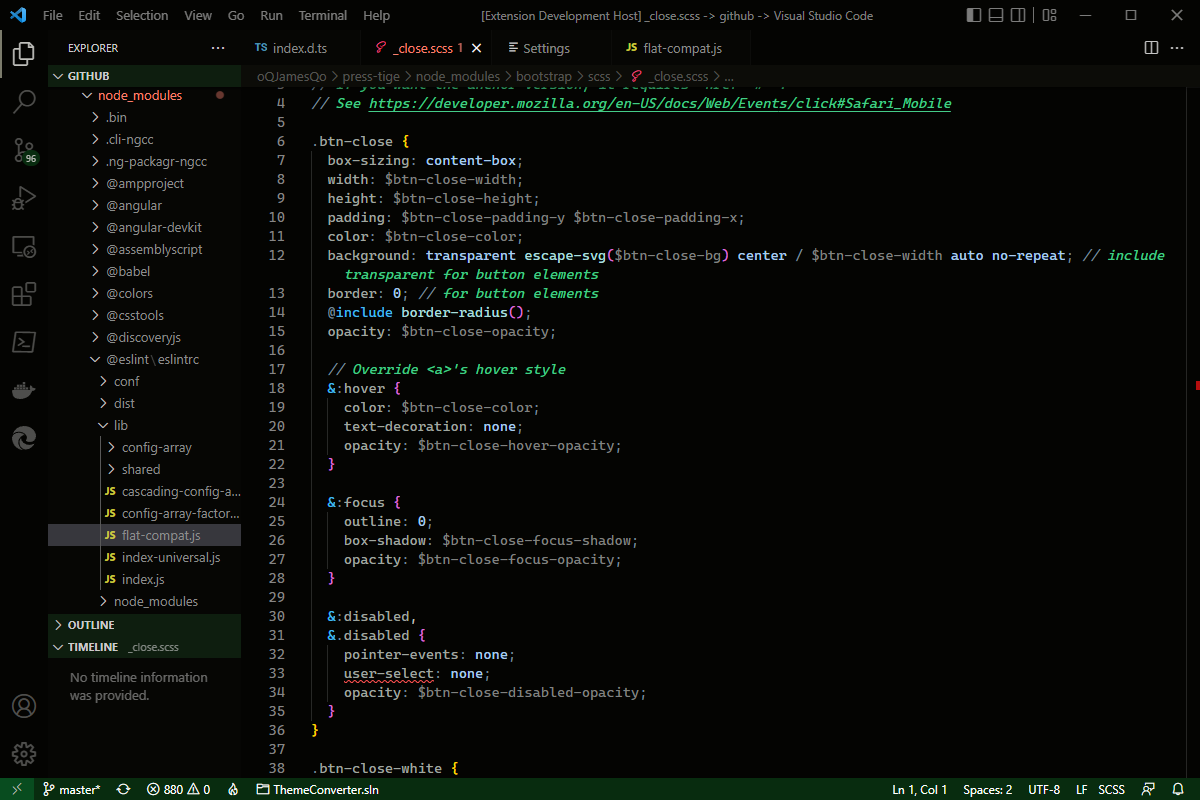
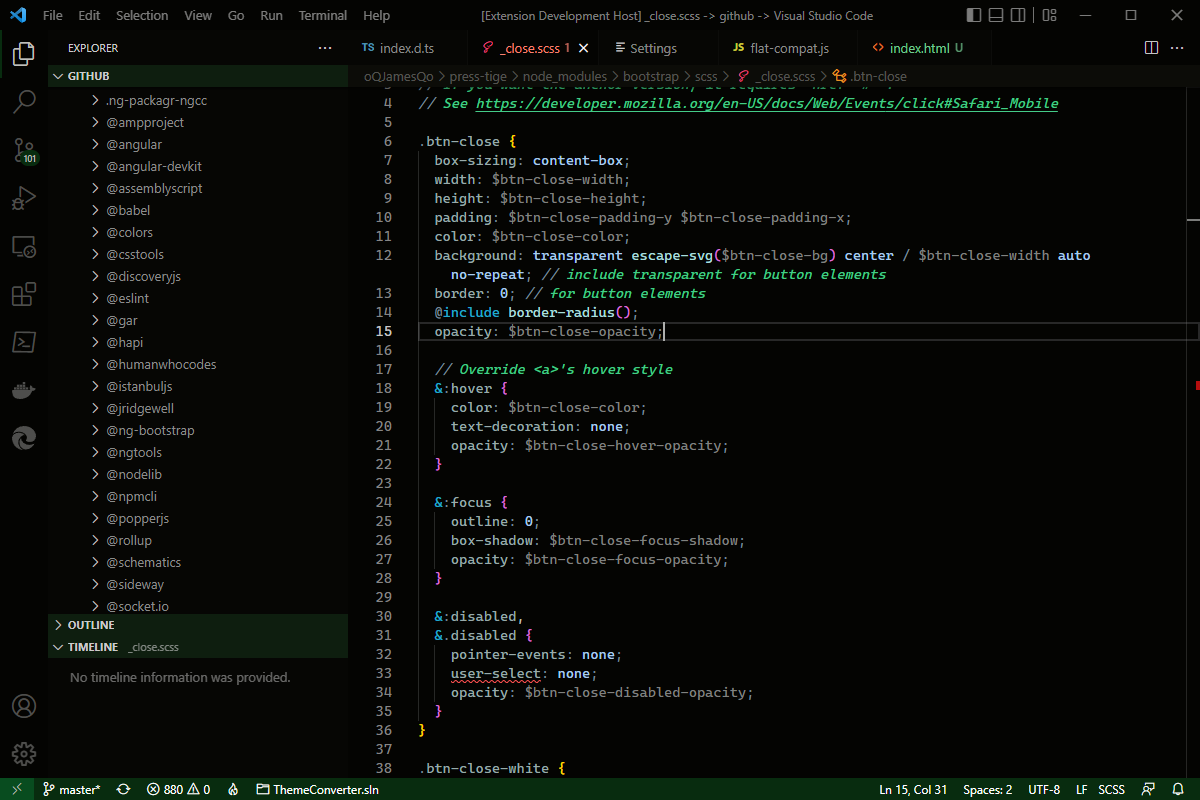
More color settings for the Deep Dark theme in the set.
More color settings for the Deep Dark theme in the set. Updated few editor tokens to lower the intensity on non-HDR monitors.

diff --git a/CHANGELOG.md b/CHANGELOG.md
@@ -24,4 +24,7 @@
 ### Added pride theme based on the main theme on Juneteenth. 
 
 ## [0.0.8] - 15 Aug, 2022
-### More color settiings for the Deep Dark theme in the set. 
+### More color settings for the Deep Dark theme in the set. 
+
+## [0.0.9] - 21 Aug, 2022
+### More color settings for the Deep Dark theme in the set. Updated few editor tokens to lower the intensity on non-HDR monitors.

diff --git a/README.md b/README.md
@@ -5,6 +5,7 @@ A set of dark themes that are light on blues.
 ![JS files](./images/js-screen.png)<br><br>
 ![TS files](./images/ts-screen.png)<br><br>
 ![SCSS files](./images/scss-screen.png)<br><br>
+![HTML files](./images/html-screen.png)<br><br>
 ## Pride
 ![TS files Pride Theme](./images/ts-screen-pride.png)<br><br>
 ## License
